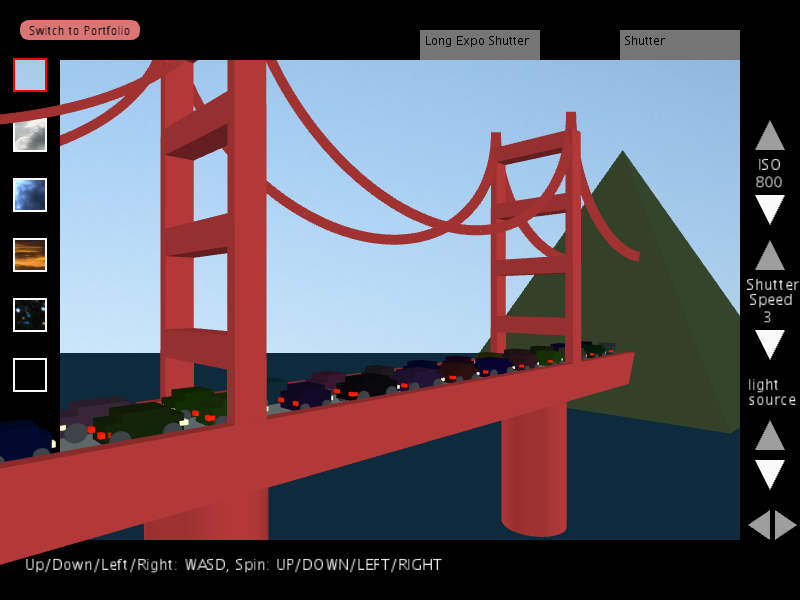
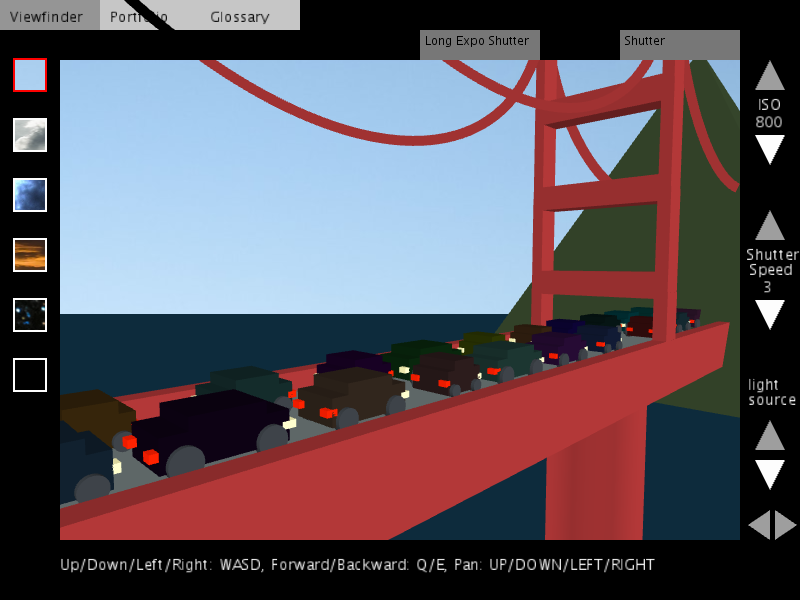
most updated version

diff --git a/FinalProject/src/portfolio/Portfolio.java b/FinalProject/src/portfolio/Portfolio.java
@@ -60,7 +60,6 @@ public class Portfolio {
 		} else {
 			drawSingleFullScreenImg(marker, photoIndex, isLongExpo);
 		}
-		
 	}
 	
 	private void drawPortfolioGrid(PApplet marker) {
@@ -71,6 +70,7 @@ public class Portfolio {
 		longExposureImages = Shutter.getallLongExpoImages();
 
 		marker.background(255);
+		marker.text("Click on a photo to expand it!", 20, 55);
 		marker.text("Long Exposure Shots: ", 20, 75);
 
 		int longExpoYMultiple = 0;
@@ -78,11 +78,9 @@ public class Portfolio {
 		int photosPerRow = 2;
 		//for some reason i need to call this method bc longExposureImages.size doesn't work
 		for (int a = 0; a < Shutter.longExpoSize(); a++) { //goes thru each arraylist in arrayList<arraylist<pimage>>
-
 			//find out how many rows down images needs to be at
 			int d = a % photosPerRow; //remainder when divided by photosPerRow
 			int e = a-d;
-			
 			longExpoYMultiple = (e/photosPerRow);
 			
 			int x = 20 + (marker.width/photosPerRow*((a%photosPerRow)));
@@ -91,17 +89,14 @@ public class Portfolio {
 			int height = marker.height/3;
 			
 			drawSingleLongExpo(marker, a, x, y, width, height);
-
 			longExpoImageRects.add(new Rectangle(x, y, width, height));			
 		}
 
 		marker.tint(255); //undo from long expo
-
 		marker.text("Simple Shots: ", 20 , (longExpoYMultiple + 2) * marker.width/5);
 
 		//display images in row in portfolio
 		for (int i = 0; i < images.size(); i++) {
-
 			//find out how many rows down images needs to be at
 			//4 photos per row, go to next row after
 			int b = i % 4; //remainder when divided by 4
@@ -119,6 +114,7 @@ public class Portfolio {
 	}
 	
 	private void drawSingleFullScreenImg(PApplet marker, int index, boolean isLongExpo) {
+		marker.background(255);
 		if (isLongExpo) {
 			drawSingleLongExpo(marker, index, 0, 0, marker.width, marker.height);
 		} else {
@@ -127,32 +123,27 @@ public class Portfolio {
 		
 		//back button
 		marker.rect(backButton.x, backButton.y, backButton.width, backButton.height);
-		marker.fill(0);
+		marker.fill(255);
 		marker.text("Back", backButton.x + 5, backButton.y + (3*backButton.height/4));
 	}
 	
 	private void drawSingleShot(PApplet marker, int index, int x, int y, int width, int height) {
 		PImage img = images.get(index);
 		img = marker.loadImage(index + ".png");
-
 		img.copy(viewfinderIndent, viewfinderIndent, marker.width-(2*viewfinderIndent), marker.height-(2*viewfinderIndent), 0, 0,  marker.width, marker.height);
-		
 		marker.image(img, x, y, width, height); //image takes up entire screen
 	}
 	
 	private void drawSingleLongExpo(PApplet marker, int index, int x, int y, int width, int height) {
 		double tint = 255.0/((double)Viewfinder.getNumPhotosPerLongExpo());
 		marker.tint(255, (int)tint); //opacity for layering for long expo
-		//System.out.println("drawing single long expo");
 		for (int b = 0; b < Viewfinder.getNumPhotosPerLongExpo(); b++) { //goes thru each pimage in the arrayList<pimage>
-
 			PImage longExpoImg = longExposureImages.get(index).get(b);
 			longExpoImg = marker.loadImage(index + "." + b + ".png");
-
 			longExpoImg.copy(viewfinderIndent, viewfinderIndent, marker.width-(2*viewfinderIndent), marker.height-(2*viewfinderIndent), 0, 0,  marker.width, marker.height); //crop image
-
 			marker.image(longExpoImg, x, y, width, height);
 		}
+		marker.tint(255, 255); //reset
 	}
 	
 	/**
@@ -175,7 +166,6 @@ public class Portfolio {
 		//small -> large for long expo shots
 		for (int i = 0; i < longExpoImageRects.size(); i++) {
 			if (longExpoImageRects.get(i).contains(p)) {
-				System.out.println("p contains long expo image of index: " + i);
 				hasClickedOnImage = true;
 				photoIndex = i;
 				isLongExpo = true;

diff --git a/FinalProject/src/worldSetting/Viewfinder.java b/FinalProject/src/worldSetting/Viewfinder.java
@@ -38,10 +38,6 @@ public class Viewfinder {
 
 	private static final float viewfinderIndent = 60;
 
-//	private static final int toggleX = 25, toggleY = 25, toggleWidth = 120, toggleHeight = 20, toggleRadius = 10;
-
-	private static final int screenWidth = 800, screenHeight = 600;
-
 	/**
 	 * Initializes fields
 	 */
@@ -149,7 +145,7 @@ public class Viewfinder {
 		//key instruction text
 		marker.fill(255);
 		marker.textSize(15);
-		String keyDefinitions = "Up/Down/Left/Right: WASD, Spin: UP/DOWN/LEFT/RIGHT";
+		String keyDefinitions = "Up/Down/Left/Right: WASD, Forward/Backward: Q/E, Pan: UP/DOWN/LEFT/RIGHT";
 		marker.text(keyDefinitions, viewfinderIndent, marker.height - 30);
 
 		//ISO up triangle
@@ -308,13 +304,13 @@ public class Viewfinder {
 	//get 3d world to redraw in between calls to screenshot to get long exposure effect
 	//draws 60x which is equal to 1 second in between draws
 	private void drawABunchOfTimes(DrawingSurface marker) {
-		for (int i = 0; i < 60.0/(longExpoSpeedFactor*5); i ++) {
+		for (int i = 0; i < 60.0/(longExpoSpeedFactor); i ++) {
 			marker.draw();
 		}
 	}
 
 	/**
-	 * @return the number of photos in each long exposure shots
+	 * @return the number of photos in each long exposure shot
 	 */
 	public static int getNumPhotosPerLongExpo() {
 		return (int) (shutterSpeedValues[shutterSpeedIndex]*longExpoSpeedFactor);

diff --git a/FinalProject/src/drawingPackage/WorldScreen.java b/FinalProject/src/drawingPackage/WorldScreen.java
@@ -22,7 +22,7 @@ public class WorldScreen extends Screen {
 	private Viewfinder viewfinder;
 	private boolean playingCarSound = false;
 	private float ratioX, ratioY;
-	private static final int keyMoveFactor = 16;
+	private static final int keyMoveFactor = 8;
 	private static final int screenWidth = 800, screenHeight = 600;
 
 	/**

diff --git a/FinalProject/src/worldSetting/World.java b/FinalProject/src/worldSetting/World.java
@@ -74,7 +74,7 @@ public class World {
 		g.directionalLight(128, 128, 128, (float) pointLightX, (float) pointLightY, 400);
 
 		backWater.display(g);
-		water.display(g);
+		//water.display(g);
 		bridge.display(g);
 		mountain1.display(g);
 		mountain2.display(g);

diff --git a/FinalProject/src/worldSetting/Car.java b/FinalProject/src/worldSetting/Car.java
@@ -48,7 +48,7 @@ public class Car extends Element{
 		bridgeStartX = bridgeX;
 		bridgeEdgeFromCenter = 10 * bridgeSize / 2;
 		
-		carSpeedFactor = 10;
+		carSpeedFactor = 20;
 	}
 	
 	/**
